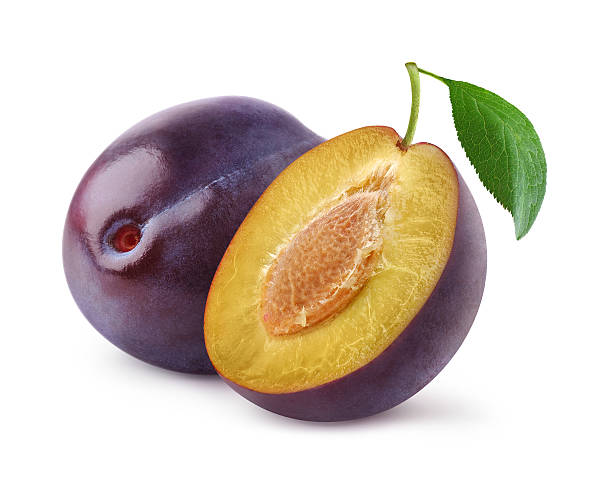
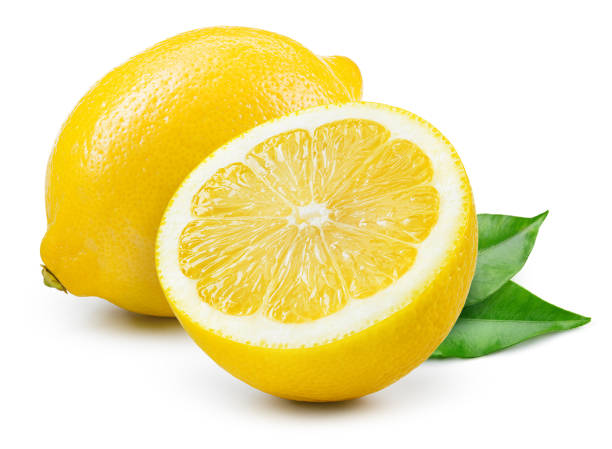
few improvements

diff --git a/script.js b/script.js
@@ -8,16 +8,16 @@ const recipeText = document.querySelector('#recipe');
 const recipeLink = document.querySelector('#recipeLink');
 
 const fruitSizes = [
-  { week: 4, fruit: 'Poppy seed', img: 'images/1.jpg' },
-  { week: 5, fruit: 'Sesame seed', img: 'images/2.jpg' },
-  { week: 6, fruit: 'Lentil seed', img: 'images/3.jpg' },
+  { week: 4, fruit: 'Poppy_seed', img: 'images/1.jpg' },
+  { week: 5, fruit: 'Sesame_seed', img: 'images/2.jpg' },
+  { week: 6, fruit: 'Lentil_seed', img: 'images/3.jpg' },
   { week: 7, fruit: 'Blueberry', img: 'images/4.jpg' },
   { week: 8, fruit: 'Raspberry', img: 'images/5.jpg' },
   { week: 9, fruit: 'Grape', img: 'images/6.jpg' },
   { week: 10, fruit: 'Date', img: 'images/7.jpg' },
   { week: 11, fruit: 'Lime', img: 'images/8.jpg' },
-  { week: 12, fruit: 'Plum', img: 'images/9.jpg' },
-  { week: 13, fruit: 'Kiwi fruit', img: 'images/10.jpg' },
+  { week: 12, fruit: 'Lemon', img: 'images/9.jpg' },
+  { week: 13, fruit: 'Kiwi_fruit', img: 'images/10.jpg' },
   { week: 14, fruit: 'Peach', img: 'images/11.jpg' },
   { week: 15, fruit: 'Pear', img: 'images/12.jpg' },
   { week: 16, fruit: 'Avocado', img: 'images/13.jpg' },
@@ -44,6 +44,26 @@ async function fetchRecipe(fruit) {
       const meal = data.meals[0]; // Get the first recipe
       recipeText.textContent = `Try this recipe: ${meal.strMeal}`;
       recipeLink.href = `https://www.themealdb.com/meal/${meal.idMeal}`;
+      recipeLink.textContent = 'View Recipe';
+      recipeLink.style.display = 'block';
+    } else if (!data.meals && fruit === 'Watermelon') {
+      recipeText.textContent = `Try this recipe: Celebrate Summer with Watermelon, Feta, and Mint Salad`;
+      recipeLink.href = `https://www.allrecipes.com/watermelon-feta-and-mint-salad-recipe-7511300`;
+      recipeLink.textContent = 'View Recipe';
+      recipeLink.style.display = 'block';
+    } else if (!data.meals && fruit === 'Papaya') {
+      recipeText.textContent = `Try this recipe: Papaya Bruschetta`;
+      recipeLink.href = `https://www.allrecipes.com/recipe/68839/papaya-bruschetta/`;
+      recipeLink.textContent = 'View Recipe';
+      recipeLink.style.display = 'block';
+    } else if (!data.meals && fruit === 'Eggplant') {
+      recipeText.textContent = `Try this recipe: Roasted Eggplant`;
+      recipeLink.href = `https://www.allrecipes.com/roasted-eggplant-recipe-6737745`;
+      recipeLink.textContent = 'View Recipe';
+      recipeLink.style.display = 'block';
+    } else if (!data.meals && fruit === 'Mango') {
+      recipeText.textContent = `Try this recipe: Summertime Mango Drink`;
+      recipeLink.href = `https://www.allrecipes.com/recipe/259088/summertime-mango-drink/`;
       recipeLink.textContent = 'View Recipe';
       recipeLink.style.display = 'block';
     } else {

diff --git a/style.css b/style.css
@@ -1,0 +1,113 @@
+/* General styles */
+body {
+  font-family: 'Poppins', sans-serif;
+  background-image: url('./images/bg.jpg');
+  background-size: 100%;
+  color: #b75070;
+  text-align: center;
+  padding: 1.6rem;
+}
+
+/* Header */
+h1 {
+  font-size: 2.5rem;
+  color: #be3e67;
+  margin-bottom: 2rem;
+}
+
+/* Input section */
+h2 {
+  font-size: 1.5rem;
+  margin-bottom: 2rem;
+}
+
+input[type='date'] {
+  padding: 1rem;
+  font-size: 1rem;
+  border: 2px solid #e888a7;
+  border-radius: 5px;
+  background-color: #f4e0e6;
+  color: #be3e67;
+}
+
+button {
+  padding: 1rem 2rem;
+  font-size: 1rem;
+  color: #fff;
+  background-color: #be3e67;
+  border: none;
+  border-radius: 5px;
+  cursor: pointer;
+  transition: background 0.3s;
+}
+
+button:hover {
+  background-color: #d70f4e;
+}
+
+/* Result section */
+#result {
+  font-size: 1.5rem;
+  font-weight: bold;
+  margin-top: 1.5rem;
+}
+
+/* Fruit image */
+#fruitImage {
+  margin-top: 1rem;
+  width: 20rem;
+  height: auto;
+  margin-left: auto;
+  margin-right: auto;
+}
+
+/* Recipe section */
+#recipe {
+  font-size: 1.2rem;
+  font-weight: bold;
+  margin-top: 1.6rem;
+}
+
+#recipeLink {
+  display: flex;
+  width: 6rem;
+  text-align: center;
+
+  margin-left: auto;
+  margin-right: auto;
+  padding: 0.5rem 1rem;
+  background-color: #be3e67;
+  color: white;
+  text-decoration: none;
+  border-radius: 5px;
+  transition: background 0.3s;
+}
+
+#recipeLink:hover {
+  background-color: #ea1257;
+}
+
+/* Responsive design */
+@media (max-width: 600px) {
+  body {
+    background-image: url(./images/bgm.jpg);
+
+    margin-left: 15rem;
+  }
+  h1 {
+    font-size: 2rem;
+  }
+
+  input[type='date'],
+  button {
+    width: 90%;
+    margin-top: 5px;
+  }
+
+  #fruitImage {
+    width: 10rem;
+  }
+}
+#fruitImage {
+  mix-blend-mode: multiply;
+}

diff --git a/index.html b/index.html
@@ -8,18 +8,15 @@
   </head>
   <body>
     <h1>What Fruit Am I?</h1>
+
     <h2>
-      First day of your last ovulation :
+      First day of your last period :
       <input type="date" id="input" />
       <button id="submit" onclick="calcWeek()">Submit</button>
     </h2>
     <h2><p id="result"></p></h2>
-    <img
-      id="fruitImage"
-      src=""
-      alt=""
-      style="display: none; width: 150px; height: auto"
-    />
+    <img id="fruitImage" src="" alt="" />
+
     <p id="recipe"></p>
     <a id="recipeLink" href="#" target="_blank" style="display: none"
       >View Recipe</a
